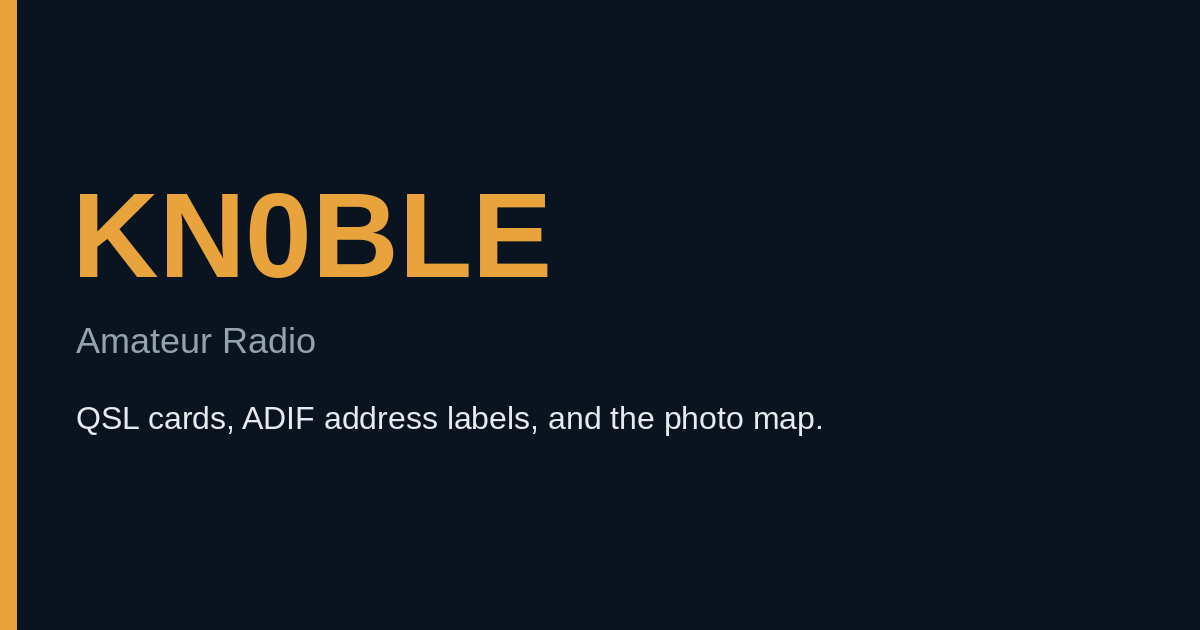
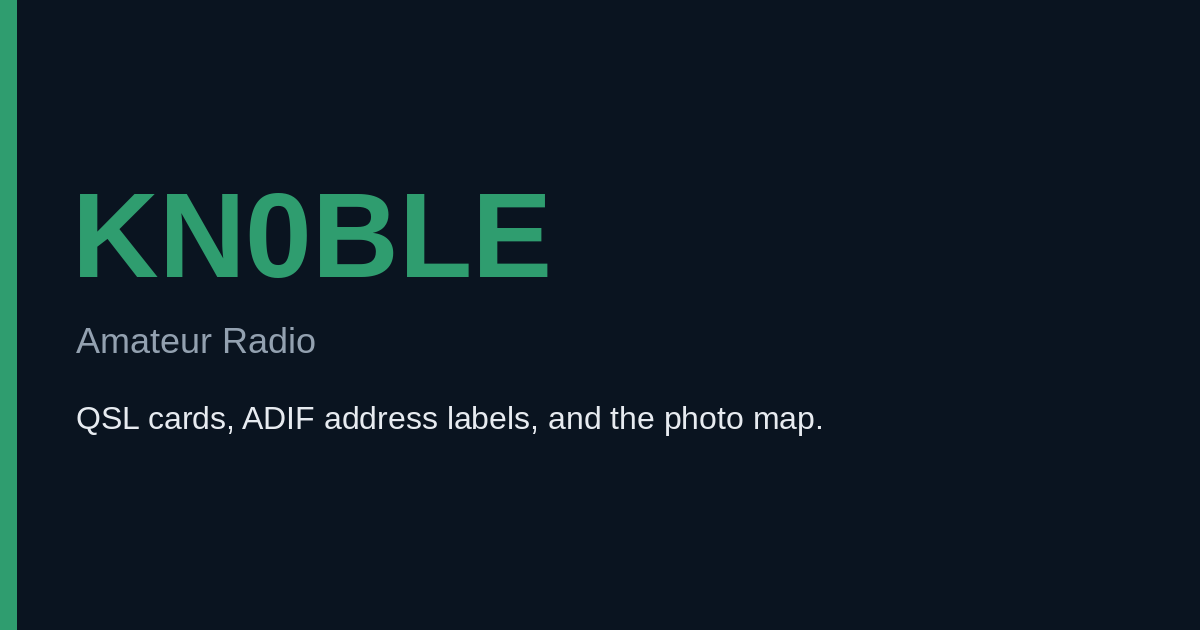
Use the QSL Tracker turquoise palette on the homepage.
Accent, links, buttons, focus rings, and the preview images follow qsl-tracker. Field borders stay light enough for WCAG AA, and button labels stay dark because white on the accent is only 3.4:1.

Changed region(s): [[0.0617, 0.3016, 0.4625, 0.4524], [0.0, 0.0, 0.0308, 1.0]]

diff --git a/css/style.css b/css/style.css
@@ -1,11 +1,17 @@
 :root {
+  /* Same palette as qsl-tracker static/style.css. */
   --bg: #0a1420;
   --bg-elevated: #101d2e;
-  --amber: #e8a33d;
-  --amber-dark: #c9822a;
   --ink: #e7ebf0;
   --muted: #93a1b0;
-  --border: #5c7894;
+  --border: #223247;
+  /* The app's --border is 1.3:1 on a card, under the 3:1 UI-component
+     minimum. Field edges keep the lighter slate (3.69:1 on the card,
+     4.03:1 on the field fill). */
+  --control-border: #5c7894;
+  --accent: #2f9d6f;
+  /* Content links in the app (main a:not(.button-link)). */
+  --link: #6fd3a5;
   --card: #101d2e;
   --max-width: 960px;
 }
@@ -20,8 +26,8 @@ body {
   line-height: 1.6;
 }
 
-a { color: var(--amber); }
-a:hover { color: #fff; }
+a { color: var(--link); }
+a:hover { color: var(--ink); }
 
 img { max-width: 100%; display: block; }
 
@@ -30,7 +36,7 @@ img { max-width: 100%; display: block; }
 header.site-header {
   background: var(--bg-elevated);
   border-bottom: 1px solid var(--border);
-  color: #fff;
+  color: var(--ink);
   padding: 1.25rem 1.5rem;
 }
 
@@ -49,7 +55,7 @@ header.site-header {
   font-size: 1.5rem;
   font-weight: 700;
   letter-spacing: 0.05em;
-  color: var(--amber);
+  color: var(--accent);
   text-decoration: none;
 }
 
@@ -73,29 +79,36 @@ nav.site-nav ul {
 }
 
 nav.site-nav a {
-  color: #c3ccd6;
+  color: var(--muted);
   text-decoration: none;
   font-size: 0.95rem;
   padding-bottom: 2px;
   border-bottom: 2px solid transparent;
 }
 
-nav.site-nav a:hover,
-nav.site-nav a:focus-visible,
+nav.site-nav a:hover {
+  color: var(--ink);
+}
+
 nav.site-nav a[aria-current="page"] {
-  color: var(--amber);
-  border-bottom-color: var(--amber);
+  color: var(--ink);
+  border-bottom-color: var(--accent);
 }
 
 nav.site-nav a:focus-visible,
 .btn:focus-visible,
-.request-form button:focus-visible {
-  outline: 2px solid var(--amber);
+.request-form button:focus-visible,
+.request-form input:focus-visible,
+.request-form textarea:focus-visible {
+  outline: 2px solid var(--accent);
   outline-offset: 2px;
+  border-radius: 2px;
 }
 
 nav.site-nav a.nav-cta {
-  background: var(--amber);
+  background: var(--accent);
+  /* App buttons label with #fff, which is 3.40:1 on #2f9d6f.
+     Dark text on this fill is 5.44:1 (4.63:1 at the 0.9 hover). */
   color: var(--bg);
   padding: 0.4rem 0.9rem;
   border-radius: 4px;
@@ -103,9 +116,13 @@ nav.site-nav a.nav-cta {
   text-align: center;
 }
 
-nav.site-nav a.nav-cta:hover,
+nav.site-nav a.nav-cta:hover {
+  opacity: 0.9;
+  color: var(--bg);
+  border-bottom-color: transparent;
+}
+
 nav.site-nav a.nav-cta:focus-visible {
-  background: var(--amber-dark);
   color: var(--bg);
   border-bottom-color: transparent;
 }
@@ -159,6 +176,7 @@ footer.site-footer {
 }
 
 footer.site-footer a { color: var(--muted); }
+footer.site-footer a:hover { color: var(--ink); }
 
 /* ---- Request forms (QSL card request) ---- */
 
@@ -183,7 +201,7 @@ footer.site-footer a { color: var(--muted); }
 .request-form textarea {
   width: 100%;
   padding: 0.6rem 0.75rem;
-  border: 1px solid var(--border);
+  border: 1px solid var(--control-border);
   border-radius: 6px;
   font-size: 1rem;
   font-family: inherit;
@@ -202,9 +220,7 @@ footer.site-footer a { color: var(--muted); }
 
 .request-form input:focus,
 .request-form textarea:focus {
-  outline: 2px solid var(--amber);
-  outline-offset: 2px;
-  border-color: var(--amber);
+  border-color: var(--accent);
 }
 
 .field-hint {
@@ -215,7 +231,7 @@ footer.site-footer a { color: var(--muted); }
 
 .request-form button {
   align-self: flex-start;
-  background: var(--amber);
+  background: var(--accent);
   color: var(--bg);
   border: none;
   border-radius: 6px;
@@ -225,13 +241,13 @@ footer.site-footer a { color: var(--muted); }
   cursor: pointer;
 }
 
-.request-form button:hover { background: var(--amber-dark); }
+.request-form button:hover { opacity: 0.9; }
 
 .card-cta p { margin-bottom: 1rem; }
 
 .btn {
   display: inline-block;
-  background: var(--amber);
+  background: var(--accent);
   color: var(--bg);
   border: none;
   border-radius: 6px;
@@ -241,7 +257,7 @@ footer.site-footer a { color: var(--muted); }
   text-decoration: none;
 }
 
-.btn:hover { background: var(--amber-dark); color: var(--bg); }
+.btn:hover { opacity: 0.9; color: var(--bg); }
 
 /* Honeypot field -- hidden from real visitors and screen readers,
    left for bots that fill in every field to trip. */
